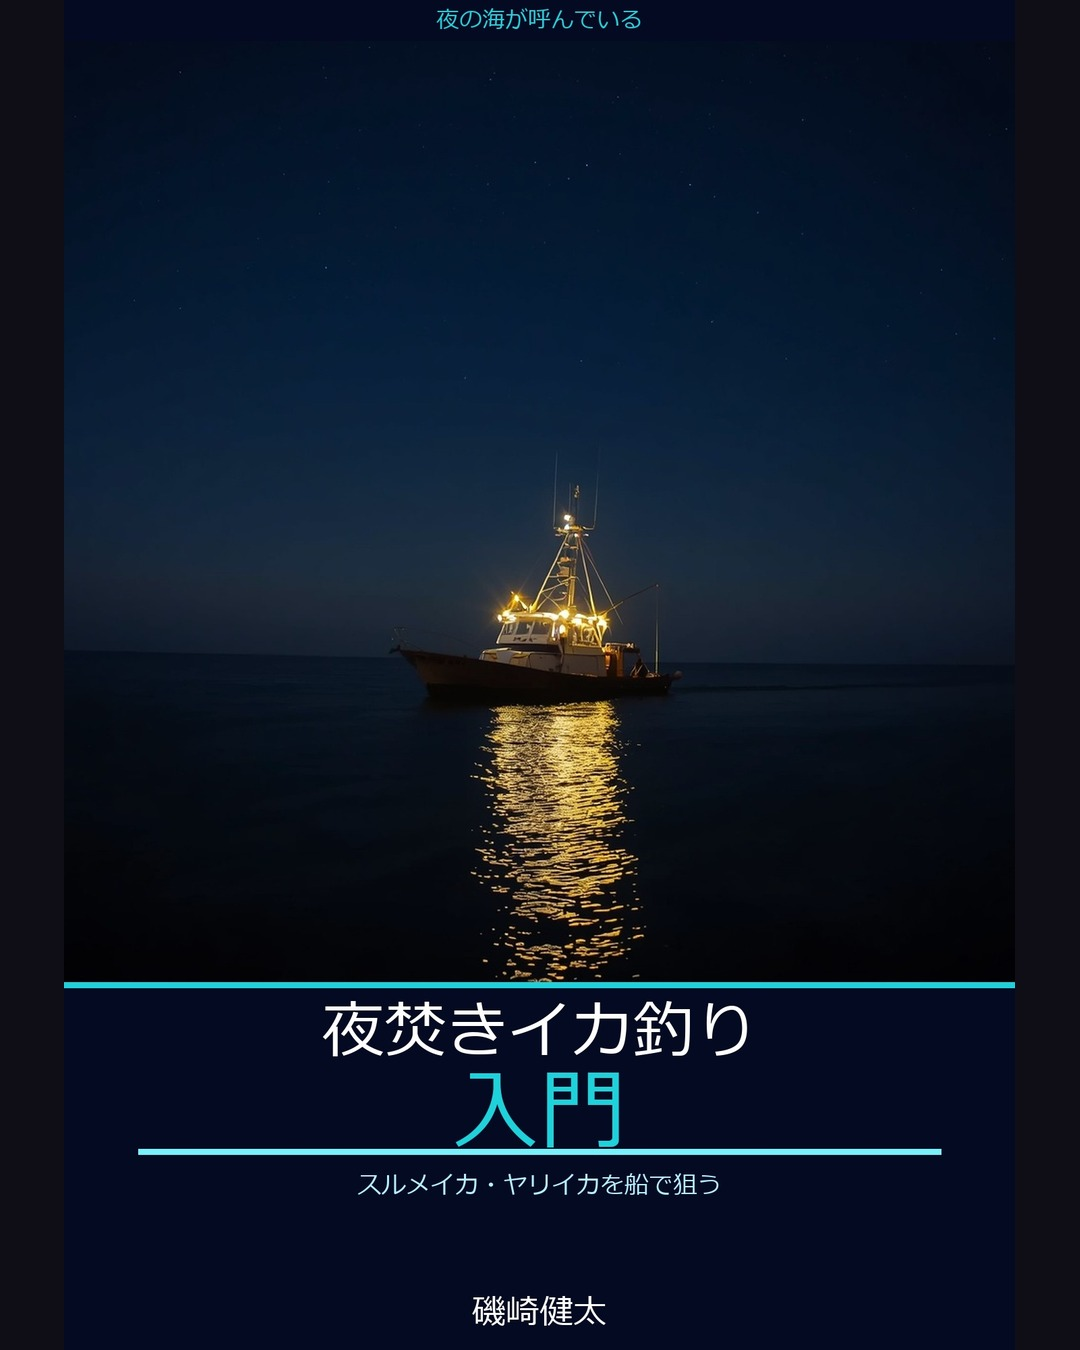
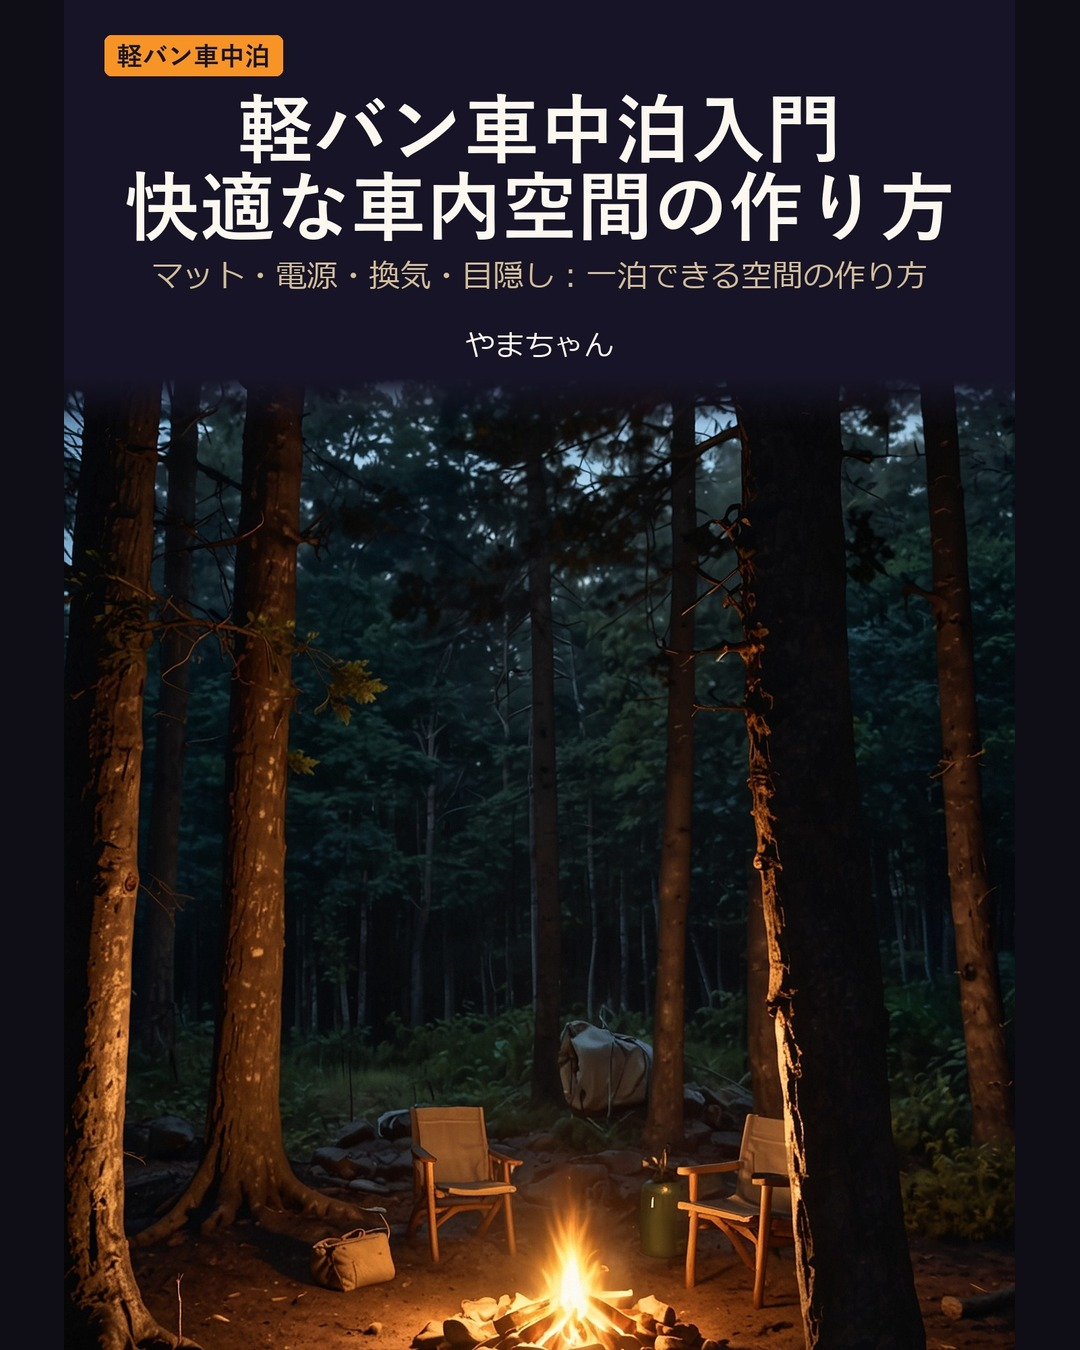
book310（河野大輔・ソロキャンプ夏の虫対策と暑さ対策入門）を追加＋book48 covers_ig同期是正
ASIN B0HC7QBCKT・¥499。書籍データ登録＋カバー画像配置＋Instagram用カバー生成。
あわせて前回未反映だったbook48のcovers_ig差分（本体cover.jpg更新後の再生成漏れ）を同期。

diff --git a/src/data/books.ts b/src/data/books.ts
@@ -1445,6 +1445,30 @@ export const books: Book[] = [
     excerpt: 'あなたは、しっかり寝たはずなのに朝から疲れている、ということはありませんか。著者の宮本ユウカも、長いあいだ「だるいのは睡眠時間が足りないせい」だと思い込んでいました。ようやく気づいたのは、問題は時間ではなく「睡眠の質」で、その質を左右していたのが夜ごはんだった、ということでした。',
   },
   {
+    id: 'book310',
+    title: 'ソロキャンプ夏の虫対策と暑さ対策入門',
+    author: '河野大輔',
+    genre: 'キャンプ',
+    asin: 'B0HC7QBCKT',
+    price: 499,
+    cover: '/covers/book310.jpg',
+    description: '秩父・奥多摩の電源のない低規格サイトを拠点にソロキャンプを続けて8年の河野大輔が、蚊帳の隙間から侵入された夜、虫よけの効果が数十分で切れた昼、スズメバチの巣に気づかず近づいた午後、テントの中で座り込みかけた真夏の昼——そんな失敗を重ねてたどり着いた、夏の虫対策・暑さ対策の物差し。',
+    tableOfContents: [
+      'はじめに',
+      '第1章 なぜ僕は夏の虫と暑さを甘く見ていたのか — 蚊帳を持たずに来た夜',
+      '第2章 蚊帳選びの罠 — 隙間から侵入された夜',
+      '第3章 虫よけ選びの罠 — 濃度を見ずに選んで数十分で効かなくなった話',
+      '第4章 スズメバチとの遭遇 — 林道で巣に気づかず近づいた午後',
+      '第5章 熱中症の罠 — テントの中で意識がぼんやりした真夏の昼',
+      '第6章 遮光タープ選びの罠 — 「日陰なのに暑い」を体験した日',
+      '第7章 冷感グッズの罠 — 保冷剤の運用を甘く見た話',
+      '第8章 電源なしサイトでの冷却手段 — 電池切れの扇風機で夜を越せなかった話',
+      '第9章 夏対策を体系化する — 要件定義としての5軸チェック',
+      'あとがき',
+    ],
+    excerpt: '2021年8月、秩父の低規格サイトで、僕は蚊帳を張らずにテントの中で一晩を過ごした。正確に言うと、「過ごせなかった」というほうが近い。日が落ちた瞬間からテントの網戸の隙間という隙間に蚊が群がり、明かりをつけるたびにその数が増えていく。',
+  },
+  {
     id: 'book257',
     title: 'ミニトマトを確実に育てるプランター入門',
     author: '増田博之',
